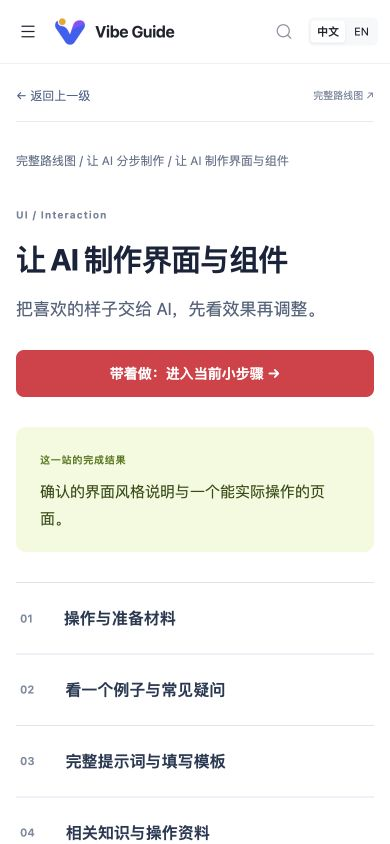
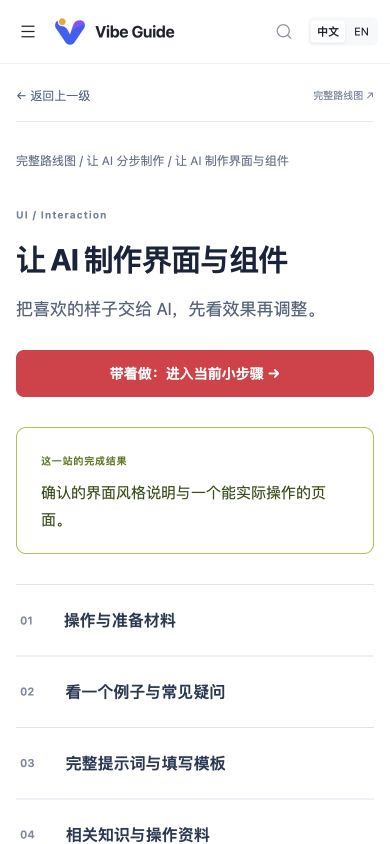
style: use colored outlines instead of filled roadmap panels

diff --git a/src/styles/learning.css b/src/styles/learning.css
@@ -1,1 +1,1 @@
-.learning{max-width:780px;margin:0 auto;padding-bottom:48px}.learning h1{font-size:clamp(26px,4vw,38px);line-height:1.3;letter-spacing:-.025em;margin:16px 0 24px}.lesson-crumb{display:flex;gap:10px;flex-wrap:wrap;font-size:12px;color:#64748b;margin-bottom:32px}.lesson-lead{color:#64748b;font-size:16px;max-width:560px}.route-list{margin:32px 0;border-top:1px solid #e2e8f0}.route-list>a{display:flex;align-items:center;gap:20px;min-height:88px;padding:20px 8px;border-bottom:1px solid #e2e8f0;color:#172033;text-decoration:none}.route-list>a:hover{background:#f5f8fc}.route-list>a>span:last-child{margin-left:auto}.route-list strong{font-weight:600}.route-list small{display:block;margin-top:6px;color:#64748b;font-size:13px}.route-number{color:#64748b;font-variant-numeric:tabular-nums}.route-status{font-size:12px;white-space:nowrap}.action-location{display:flex;gap:12px;align-items:center;color:#475569;font-size:14px;margin:20px 0}.action-illustration{position:relative;display:flex;gap:16px;align-items:center;justify-content:center;background:#f4f7fb;border:1px solid #e2e8f0;border-radius:12px;padding:28px 16px 40px;margin:24px 0}.action-illustration>div{display:flex;gap:10px;align-items:center;font-size:14px}.action-illustration>div>span{font-size:24px;color:#4069ad}.action-illustration>b{color:#94a3b8}.action-illustration small{position:absolute;bottom:10px;right:14px;font-size:10px;color:#64748b}.lesson-actions{padding-left:25px;line-height:1.9;margin:24px 0}.lesson-actions li{padding:0 0 14px 6px}.success-check{border:0;border-radius:10px;background:#f3fadf;padding:18px 22px;margin:28px 0}.learning h2{font-size:16px;margin:0 0 10px}.success-check p{font-size:14px;line-height:1.8;margin:0}.learn-details{border-top:1px solid #e2e8f0;padding:18px 0;margin-top:20px}.learn-details summary{cursor:pointer;font-size:14px;font-weight:600;min-height:28px}.learn-details p{font-size:14px;line-height:1.8}.lesson-footer{display:flex;align-items:center;justify-content:space-between;gap:18px;flex-wrap:wrap;margin:28px 0}.learn-primary{display:inline-flex;align-items:center;justify-content:center;border:0;background:#df3044;color:white!important;text-decoration:none;border-radius:8px;min-height:46px;padding:12px 20px;font-size:14px;font-weight:600;cursor:pointer}.learn-help{display:inline-block;font-size:14px;padding:12px 0}.local-note{font-size:12px;color:#64748b;margin-top:26px;line-height:1.7}.idea-draft label{display:block;font-weight:600;font-size:14px;margin:18px 0 10px}.idea-draft textarea{width:100%;padding:14px;border:1px solid #bdc9d8;border-radius:8px;font:inherit;line-height:1.7;resize:vertical}.draft-tools{display:flex;gap:16px;flex-wrap:wrap;margin:12px 0}.draft-tools button{border:0;background:transparent;color:#c5422e;padding:8px 0;cursor:pointer}.official-link{font-size:14px;display:inline-block;margin-top:12px}.rescue-flow section{margin:24px 0;padding:20px;border:0;border-radius:10px;background:#f6f8fb}.rescue-flow p{font-size:15px;line-height:1.8}.step-tag{color:#64748b;font-size:12px;display:block;margin-bottom:8px}.learning :is(a,button,summary,textarea):focus-visible{outline:3px solid #77a7ec;outline-offset:4px}.learning .prompt-template pre{max-height:260px;overflow:auto}.learning .template-instruction,.learning .template-footer>span:first-child{display:none}@media(max-width:600px){.learning h1{margin-top:10px}.lesson-crumb{margin-bottom:24px}.action-illustration{gap:10px;padding-inline:8px}.action-illustration>div{flex-direction:column;gap:4px;font-size:12px}.lesson-footer{align-items:stretch;flex-direction:column}.learn-primary{width:100%;text-align:center}.route-list>a{gap:14px}.route-list small{font-size:12px}.learning .prompt-template{padding:12px}}
+.learning{max-width:780px;margin:0 auto;padding-bottom:48px}.learning h1{font-size:clamp(26px,4vw,38px);line-height:1.3;letter-spacing:-.025em;margin:16px 0 24px}.lesson-crumb{display:flex;gap:10px;flex-wrap:wrap;font-size:12px;color:#64748b;margin-bottom:32px}.lesson-lead{color:#64748b;font-size:16px;max-width:560px}.route-list{margin:32px 0;border-top:1px solid #e2e8f0}.route-list>a{display:flex;align-items:center;gap:20px;min-height:88px;padding:20px 8px;border-bottom:1px solid #e2e8f0;color:#172033;text-decoration:none}.route-list>a:hover{background:#f5f8fc}.route-list>a>span:last-child{margin-left:auto}.route-list strong{font-weight:600}.route-list small{display:block;margin-top:6px;color:#64748b;font-size:13px}.route-number{color:#64748b;font-variant-numeric:tabular-nums}.route-status{font-size:12px;white-space:nowrap}.action-location{display:flex;gap:12px;align-items:center;color:#475569;font-size:14px;margin:20px 0}.action-illustration{position:relative;display:flex;gap:16px;align-items:center;justify-content:center;background:#f4f7fb;border:1px solid #e2e8f0;border-radius:12px;padding:28px 16px 40px;margin:24px 0}.action-illustration>div{display:flex;gap:10px;align-items:center;font-size:14px}.action-illustration>div>span{font-size:24px;color:#4069ad}.action-illustration>b{color:#94a3b8}.action-illustration small{position:absolute;bottom:10px;right:14px;font-size:10px;color:#64748b}.lesson-actions{padding-left:25px;line-height:1.9;margin:24px 0}.lesson-actions li{padding:0 0 14px 6px}.success-check{border:1px solid #a3c64b;border-radius:10px;background:#fff;padding:18px 22px;margin:28px 0}.learning h2{font-size:16px;margin:0 0 10px}.success-check p{font-size:14px;line-height:1.8;margin:0}.learn-details{border-top:1px solid #e2e8f0;padding:18px 0;margin-top:20px}.learn-details summary{cursor:pointer;font-size:14px;font-weight:600;min-height:28px}.learn-details p{font-size:14px;line-height:1.8}.lesson-footer{display:flex;align-items:center;justify-content:space-between;gap:18px;flex-wrap:wrap;margin:28px 0}.learn-primary{display:inline-flex;align-items:center;justify-content:center;border:0;background:#df3044;color:white!important;text-decoration:none;border-radius:8px;min-height:46px;padding:12px 20px;font-size:14px;font-weight:600;cursor:pointer}.learn-help{display:inline-block;font-size:14px;padding:12px 0}.local-note{font-size:12px;color:#64748b;margin-top:26px;line-height:1.7}.idea-draft label{display:block;font-weight:600;font-size:14px;margin:18px 0 10px}.idea-draft textarea{width:100%;padding:14px;border:1px solid #bdc9d8;border-radius:8px;font:inherit;line-height:1.7;resize:vertical}.draft-tools{display:flex;gap:16px;flex-wrap:wrap;margin:12px 0}.draft-tools button{border:0;background:transparent;color:#c5422e;padding:8px 0;cursor:pointer}.official-link{font-size:14px;display:inline-block;margin-top:12px}.rescue-flow section{margin:24px 0;padding:20px;border:0;border-radius:10px;background:#f6f8fb}.rescue-flow p{font-size:15px;line-height:1.8}.step-tag{color:#64748b;font-size:12px;display:block;margin-bottom:8px}.learning :is(a,button,summary,textarea):focus-visible{outline:3px solid #77a7ec;outline-offset:4px}.learning .prompt-template pre{max-height:260px;overflow:auto}.learning .template-instruction,.learning .template-footer>span:first-child{display:none}@media(max-width:600px){.learning h1{margin-top:10px}.lesson-crumb{margin-bottom:24px}.action-illustration{gap:10px;padding-inline:8px}.action-illustration>div{flex-direction:column;gap:4px;font-size:12px}.lesson-footer{align-items:stretch;flex-direction:column}.learn-primary{width:100%;text-align:center}.route-list>a{gap:14px}.route-list small{font-size:12px}.learning .prompt-template{padding:12px}}

diff --git a/src/styles/interaction.css b/src/styles/interaction.css
@@ -1,4 +1,4 @@
-:root{--text-strong:#17243b;--text-body:#485b75;--text-muted:#74839a;--action:#d94c32}main h1{color:var(--text-strong);font-weight:720;letter-spacing:-.035em}main h2{color:#243952;font-weight:650}main p{line-height:1.8}main .eyebrow{font-size:10px;font-weight:650;letter-spacing:.1em;color:var(--text-muted)}main .muted,main .small{color:#687b94}main a:not(.learn-primary):not(.map-node):hover{color:#c63e2d}a,button,summary{ -webkit-tap-highlight-color:transparent}button,.button,.learn-primary,.nav-item{transition:background-color .18s,color .18s,transform .18s,box-shadow .18s}button:not(:disabled):hover,.learn-primary:hover{box-shadow:0 4px 12px #e9651624}button:not(:disabled):active,.button:active,.learn-primary:active,.map-node:active{transform:translateY(1px) scale(.985)}button:disabled{opacity:.45;cursor:not-allowed}summary{transition:color .18s,background-color .18s}summary:hover{color:var(--action);background:#fff7ee}details>summary::marker{color:#7d91ad}details[open]>summary{color:#bd4427}a:focus-visible,button:focus-visible,summary:focus-visible,select:focus-visible,textarea:focus-visible{outline:3px solid #7ea9e9;outline-offset:4px}main{animation:page-arrive .2s ease-out}@keyframes page-arrive{from{opacity:.65;transform:translateY(5px)}to{opacity:1;transform:translateY(0)}}@media(prefers-reduced-motion:reduce){*,*::before,*::after{animation:none!important;transition:none!important;scroll-behavior:auto!important}}
+:root{--text-strong:#17243b;--text-body:#485b75;--text-muted:#74839a;--action:#d94c32}main h1{color:var(--text-strong);font-weight:720;letter-spacing:-.035em}main h2{color:#243952;font-weight:650}main p{line-height:1.8}main .eyebrow{font-size:10px;font-weight:650;letter-spacing:.1em;color:var(--text-muted)}main .muted,main .small{color:#687b94}main a:not(.learn-primary):not(.map-node):hover{color:#c63e2d}a,button,summary{ -webkit-tap-highlight-color:transparent}button,.button,.learn-primary,.nav-item{transition:background-color .18s,color .18s,transform .18s,box-shadow .18s}button:not(:disabled):hover,.learn-primary:hover{box-shadow:0 4px 12px #e9651624}button:not(:disabled):active,.button:active,.learn-primary:active,.map-node:active{transform:translateY(1px) scale(.985)}button:disabled{opacity:.45;cursor:not-allowed}summary{transition:color .18s,background-color .18s}summary:hover{color:var(--action);background:transparent}details>summary::marker{color:#7d91ad}details[open]>summary{color:#bd4427}a:focus-visible,button:focus-visible,summary:focus-visible,select:focus-visible,textarea:focus-visible{outline:3px solid #7ea9e9;outline-offset:4px}main{animation:page-arrive .2s ease-out}@keyframes page-arrive{from{opacity:.65;transform:translateY(5px)}to{opacity:1;transform:translateY(0)}}@media(prefers-reduced-motion:reduce){*,*::before,*::after{animation:none!important;transition:none!important;scroll-behavior:auto!important}}
 
 /* Warm actions; saturated accents are paired with readable dark text. */
-.nav-item.active{background:#fff0e7;color:#b84120}.learn-primary:hover{background:#c8322b!important}.button.primary{background:#df3044;border-color:#df3044;color:#fff}.map-dot{box-shadow:none}
+.nav-item.active{background:#fff;color:#c52f3f;box-shadow:inset 0 0 0 1px #e65666}.learn-primary:hover{background:#c8322b!important}.button.primary{background:#df3044;border-color:#df3044;color:#fff}.map-dot{box-shadow:none}

diff --git a/docs/reviews/2026-09-26-redesign/implementation.md b/docs/reviews/2026-09-26-redesign/implementation.md
@@ -54,3 +54,5 @@
 依据用户补充移除装饰性彩色上边/左边线，使用轻底色、标题字号与文字颜色区分层级；路线连接线保留表达流程关系。新截图：`roadmap-desktop.png`、`node-mobile.png`。
 
 配色跟进：按用户要求，将灰蓝/棕灰阶段色改为正红、橙、青柠绿、黄色。鲜色集中在阶段编号、图标和主行动，浅底色辅助分组，正文保留深色；不恢复装饰色边线。红底白字编号/按钮对比度 4.52:1，橙/青柠/黄底配深色编号分别为 6.38、8.68、9.89:1。
+
+最新视觉修订：用户否定色块填充，最终改为白底 + 红/橙/青柠/黄细轮廓及连接线，图标与文字承接色彩；路线分区、节点、分支不使用彩色底块。结果提示与选中导航也改为白底细轮廓。之前的填色方案仅为迭代记录，不是最终验收样式。
